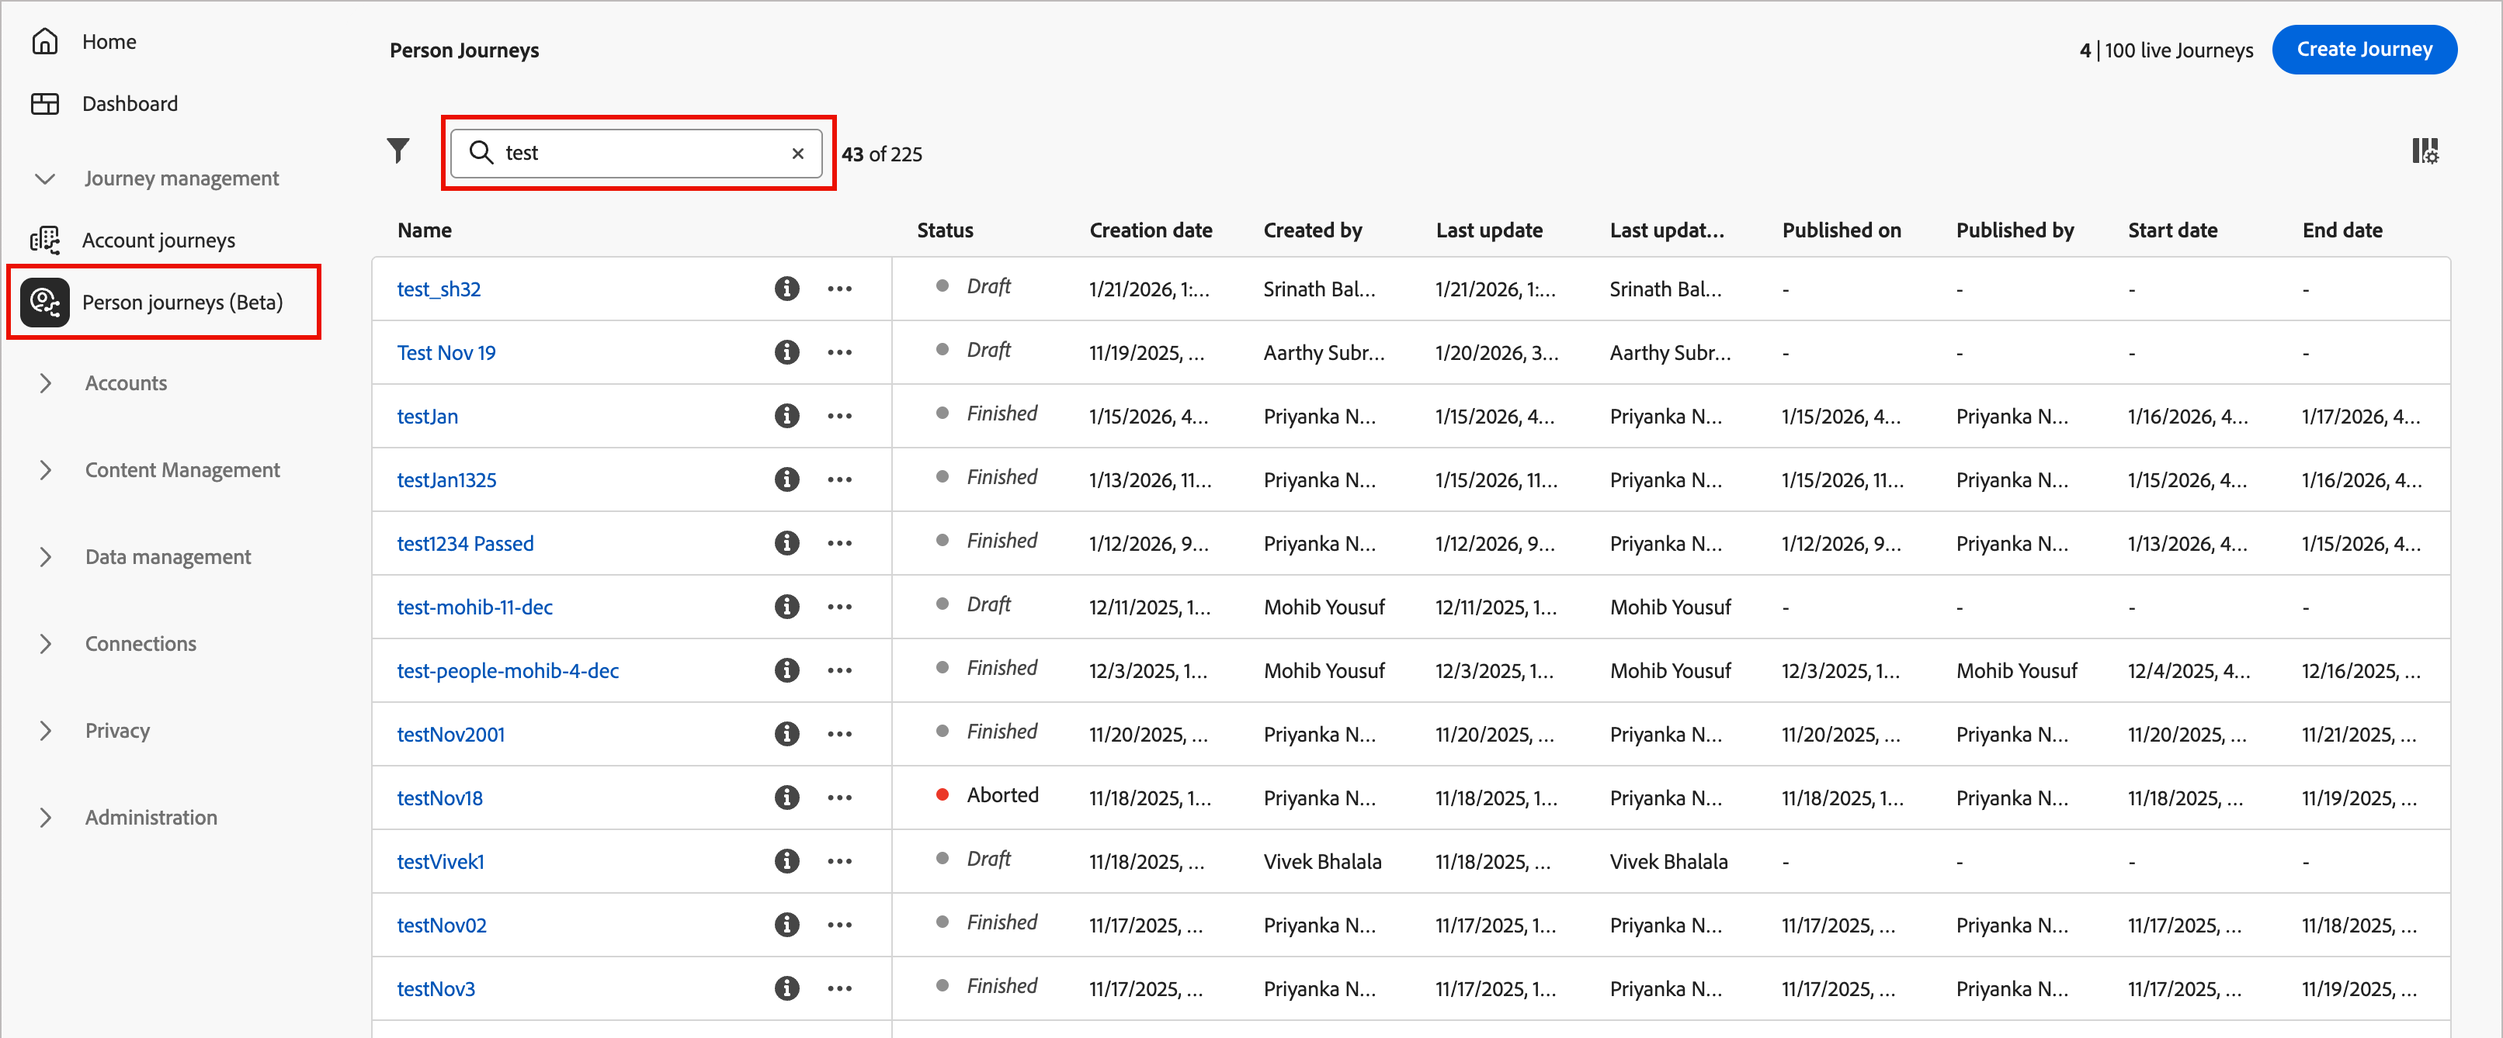
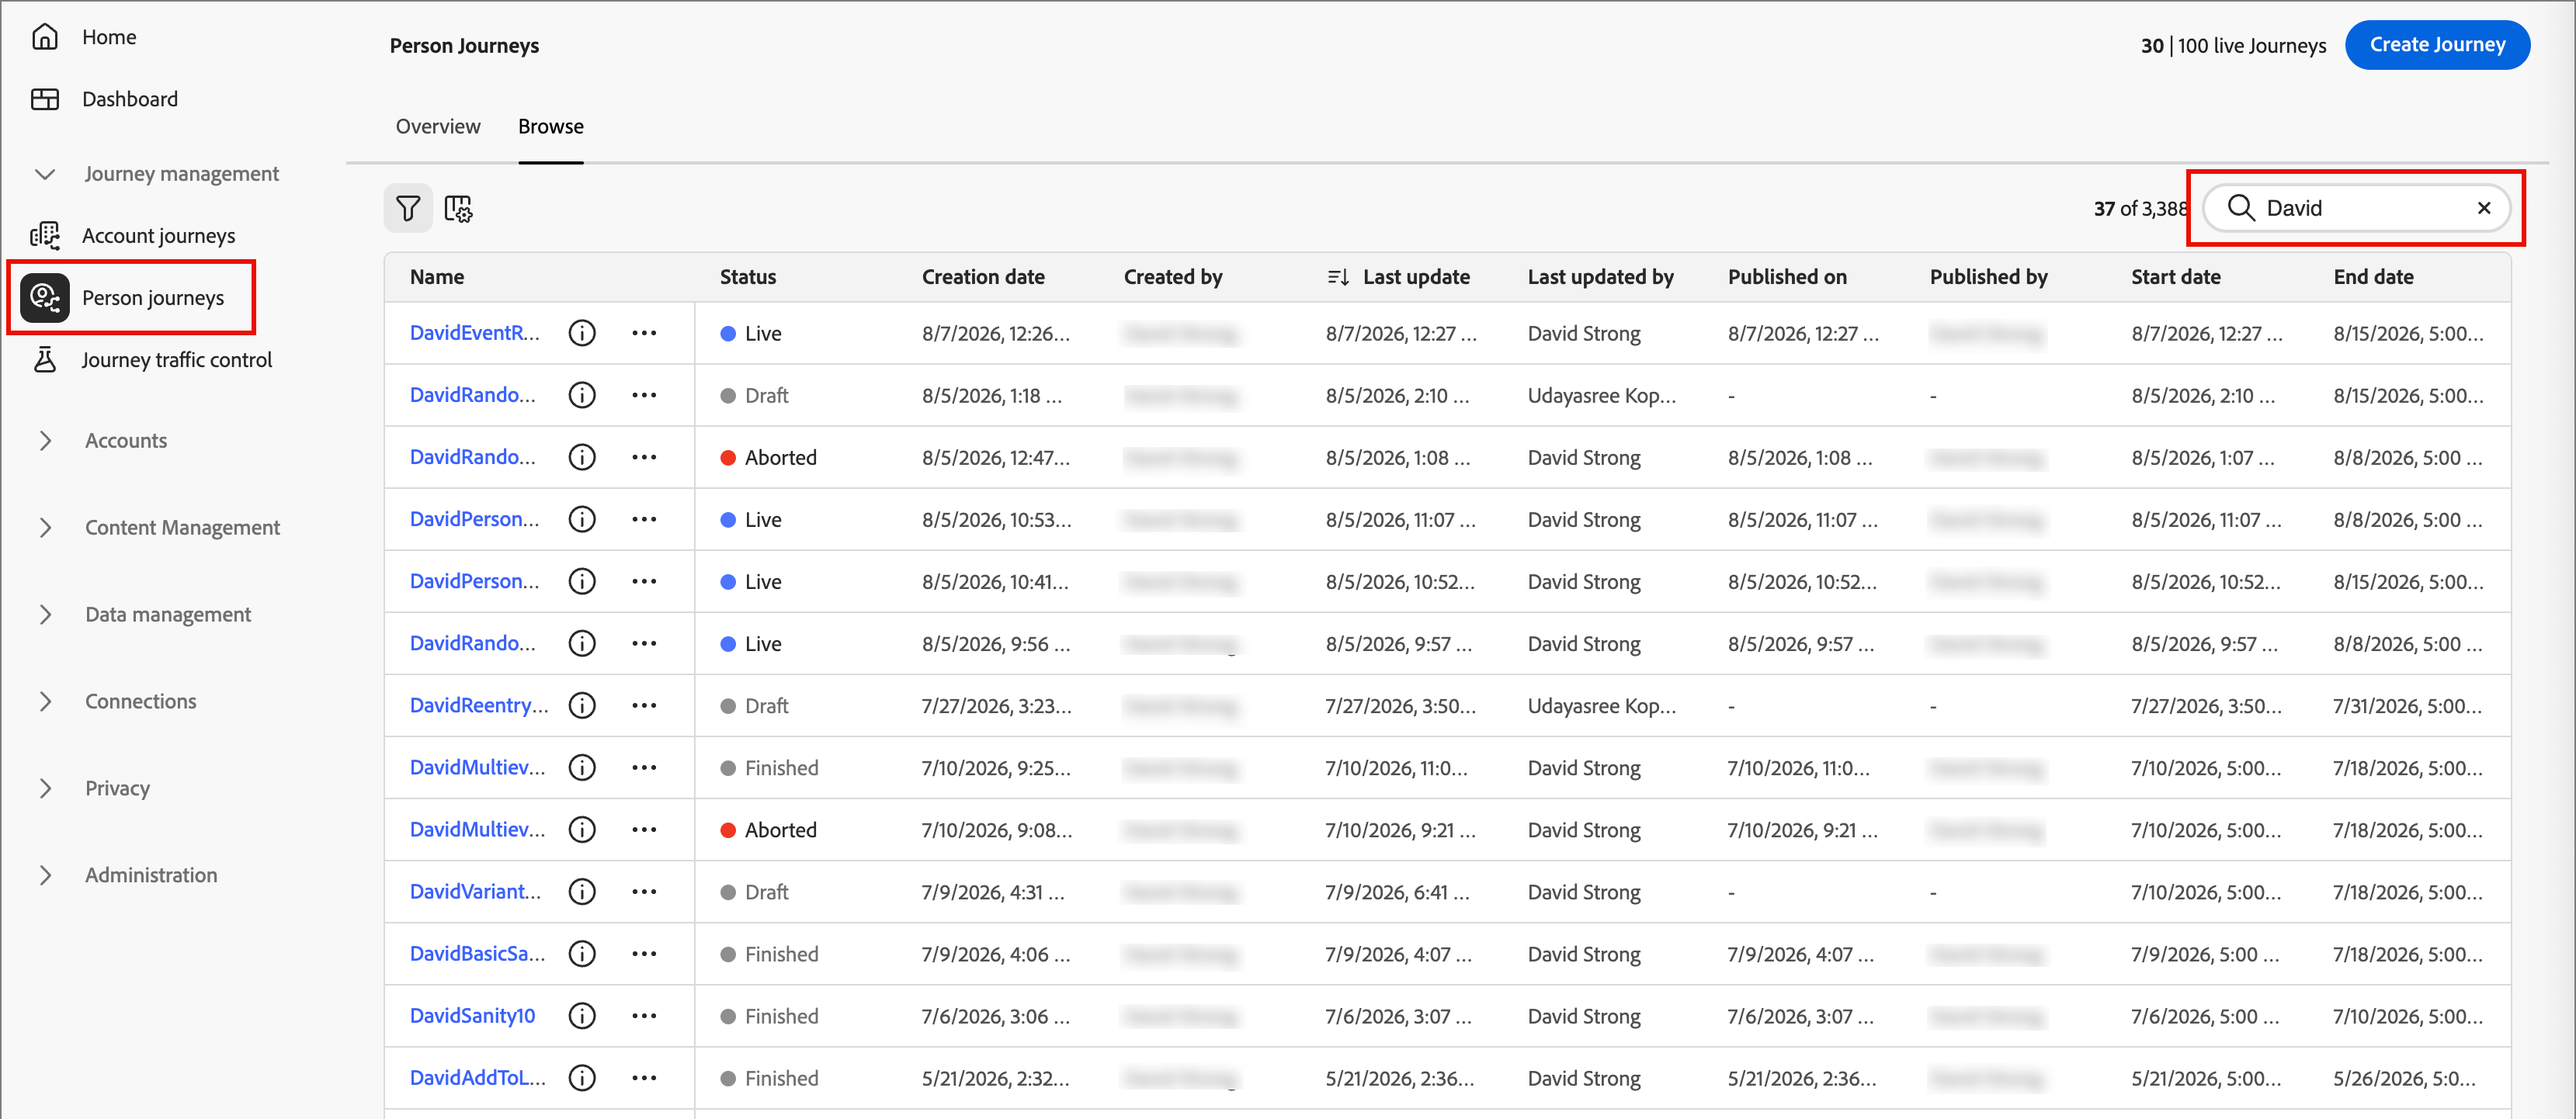
SPHR-37505, person journeys GA in M1.5

diff --git a/help/user/journeys/journeys-overview.md b/help/user/journeys/journeys-overview.md
@@ -32,27 +32,9 @@ Journey Optimizer B2B Edition supports two journey types:
 
    ![Video](../../assets/do-not-localize/icon-video.svg){width="30"} [Watch the account journey overview video](#overview-video)
 
-* **Person journeys** - (Beta) Orchestrate lead-based marketing using Experience Platform Audiences and data. With person journeys, your Marketing Operations are not reliant on Marketo Engage or workarounds for Adobe Campaign/B2C tool chains so that they can support B2B use cases.
+* **Person journeys** - Orchestrate lead-based marketing using Experience Platform Audiences and data. With person journeys, your marketing operations are not reliant on Marketo Engage or workarounds for Adobe Campaign/B2C tool chains so that they can support B2B use cases.
 
    When used in concert with account journeys and buying groups, a person journey can provide marketers with the power to apply full orchestration to the buying journey.
-
-   +++Current limitations for person journeys
-   
-   There are limitations that could block certain use cases or cause difficulty creating person journeys. Many issues are a result of the initial beta program implementation, to be addressed in the future.
-   
-   * Events cannot be combined with profile attributes to narrow down audience definitions.
-   * The context of the event that qualifies a profile for a journey cannot be used for personalization or orchestration.
-   * Journeys cannot currently have both an event and profile segment entry criteria.
-   * Event listeners cannot listen for multiple events.
-   * Wait nodes currently do not have a full suite of options for day of the week or time of day exit criteria.
-   * The email editor incorrectly references capabilities and attributes that are only available for Account Journeys
-   * Support for custom journey tokens (_My Tokens_) is not yet available.
-   * Add and Remove from person journey nodes is not currently available from either journey type. 
-   * Event history cannot be used for orchestration or personalization.
-   * Related objects (account, buying group, opportunity, and custom objects) cannot be used for orchestration or personalization.
-   * Web, SMS, and ad platform channels are not currently supported.
-
-   +++
 
 ## Get started with a journey
 
@@ -74,9 +56,7 @@ Enter text in the  _Search_ tool at the top of the list to filter the displayed 
 
 ![Filter the account journeys list](./assets/account-journeys-list-search-filter.png){width="800" zoomable="yes"}
 
->[!TAB Person journeys (Beta)]
-
-[!BADGE Beta]{type=Informative tooltip="Available as a beta feature"}
+>[!TAB Person journeys]
 
 On the left navigation, expand **[!UICONTROL Journey Management]** and click **[!UICONTROL Person journeys]**.
 
@@ -193,7 +173,7 @@ A duplicate action is similar to a clone function, but a duplicated journey does
 
    * **[!UICONTROL Partial content duplication]** - Use this type to copy everything in the journey, excluding any created emails or SMS messages. Nodes that reference a Marketo Engage email or SMS message are fully intact.
 
-   * **[!UICONTROL Duplicate without details]** - Use this type to copy only the node structure and paths. All node settings and path conditions are undefined (default), so that you can reuse the basic flow with different audience, actions, and path segmentation settings. All _Wait_ nodes use the default of five days.
+   * **[!UICONTROL Duplicate without details]** - Use this type to copy only the node structure and paths. All node settings and path conditions are undefined (default), so that you can use the basic flow again with different audience, actions, and path segmentation settings. All _Wait_ nodes use the default of five days.
 
 1. Click **[!UICONTROL Duplicate]**.
 

diff --git a/help/user/release-notes/release-notes.md b/help/user/release-notes/release-notes.md
@@ -39,8 +39,9 @@ Review the [product description](https://helpx.adobe.com/legal/product-descripti
 
 | Type | Item | Description |
 | ---- | ---- | ----------- |
+| Feature | Person journeys | (Previously Beta, early deployment for general availability) You can now create journeys to orchestrate lead-based marketing using Experience Platform Audiences and data. [Learn more](../journeys/journeys-overview.md) |
 | Feature | Person lists | Static and dynamic person lists are now available so that you can target profiles by your defined criteria, such as demographic attributes and experience event history. |
-| Feature | _Vaiant split paths_ journey nodes | (Previously beta for account journeys) Marketers can now test variations within an account or person journey by assigning accounts or people to different journey paths based on defined percentages. |
+| Feature | _Vaiant split paths_ journey nodes | (Previously Beta for account journeys) Marketers can now test variations within an account or person journey by assigning accounts or people to different journey paths based on defined percentages. |
 | Enhancement | Journey re-entry - Person journeys | Support for journey re-entry is now available for person journeys. |
 | Enhancement | Listen for event triggers and filters - Account journeys | Support for multiple triggers and filters in a _Listen for event_ node is now available for account journeys. |
 | Enhancement | External split path nodes - Person journeys | Support for _External split paths_ nodes is now available for person journeys. |

diff --git a/help/user/TOC.md b/help/user/TOC.md
@@ -38,7 +38,7 @@ user-guide-description: Learn about Adobe Journey Optimizer B2B Edition and how 
     + {hide-from-toc} [Journey nodes](./journeys/journey-nodes.md)
     + Journey nodes {#journey-nodes}
        + [Account audience](./journeys/account-audience-nodes.md)
-       + [Person audience (Beta)](./journeys/person-audience-nodes.md)
+       + [Person audience](./journeys/person-audience-nodes.md)
        + [Take an action](./journeys/action-nodes.md)
        + [Listen for an event](./journeys/listen-for-event-nodes.md)
        + [Split and merge paths](./journeys/split-merge-paths-nodes.md)

diff --git a/help/user/journeys/journey-nodes.md b/help/user/journeys/journey-nodes.md
@@ -29,7 +29,7 @@ After you create a journey (account journey or person journey), add the audience
 Audience nodes are automatically the first node in the journey:
 
 * [Account audience](./account-audience-nodes.md)
-* [Person audience](./person-audience-nodes.md) (Beta)
+* [Person audience](./person-audience-nodes.md)
 
 Construct your journey by combining the different action, event, and orchestration nodes as a multi-step, cross-channel scenario. Each node of a journey represents a step along a logical path. Use the following node types to construct an account journey:
 

diff --git a/help/user/journeys/create-publish-journey.md b/help/user/journeys/create-publish-journey.md
@@ -33,7 +33,7 @@ To get started with a journey, create the journey and then construct the nodes a
 Under **[!UICONTROL Journey management]** in the left navigation, select the journey type that you want to create:
 
 * **[!UICONTROL Account journeys]**
-* **[!UICONTROL Person journeys]** (Beta)
+* **[!UICONTROL Person journeys]**
 
 _To add a new journey:_
 
@@ -49,7 +49,7 @@ _To add a new journey:_
 
 +++
 
-+++Person journey (Beta)
++++Person journey
 
 1. Click **[!UICONTROL Create Journey]** at the top-right of the page.
 

diff --git a/help/user/setup-ultimate.md b/help/user/setup-ultimate.md
@@ -288,7 +288,7 @@ To support marketing teams that include other channels in their journeys, config
 <td><a href="./admin/configure-channels-sms.md">Learn more</a></td>
 </tr>
 <tr>
-<td colspan="2"><strong>Landing pages</strong> (Beta) channel configuration for Journey Optimizer B2B Edition.</td>
+<td colspan="2"><strong>Landing pages</strong> channel configuration for Journey Optimizer B2B Edition.</td>
 <td></td>
 </tr>
 <tr>

diff --git a/help/user/dashboards/journeys-dashboard.md b/help/user/dashboards/journeys-dashboard.md
@@ -41,7 +41,7 @@ On the left navigation, expand **[!UICONTROL Journey Management]** and click **[
 
 ![Account journeys overview](./assets/journey-overview-account.png){width="800" zoomable="yes"}
 
->[!TAB Person journeys (Beta)]
+>[!TAB Person journeys]
 
 [!BADGE Beta]{type=Informative tooltip="Available as a beta feature"}
 
